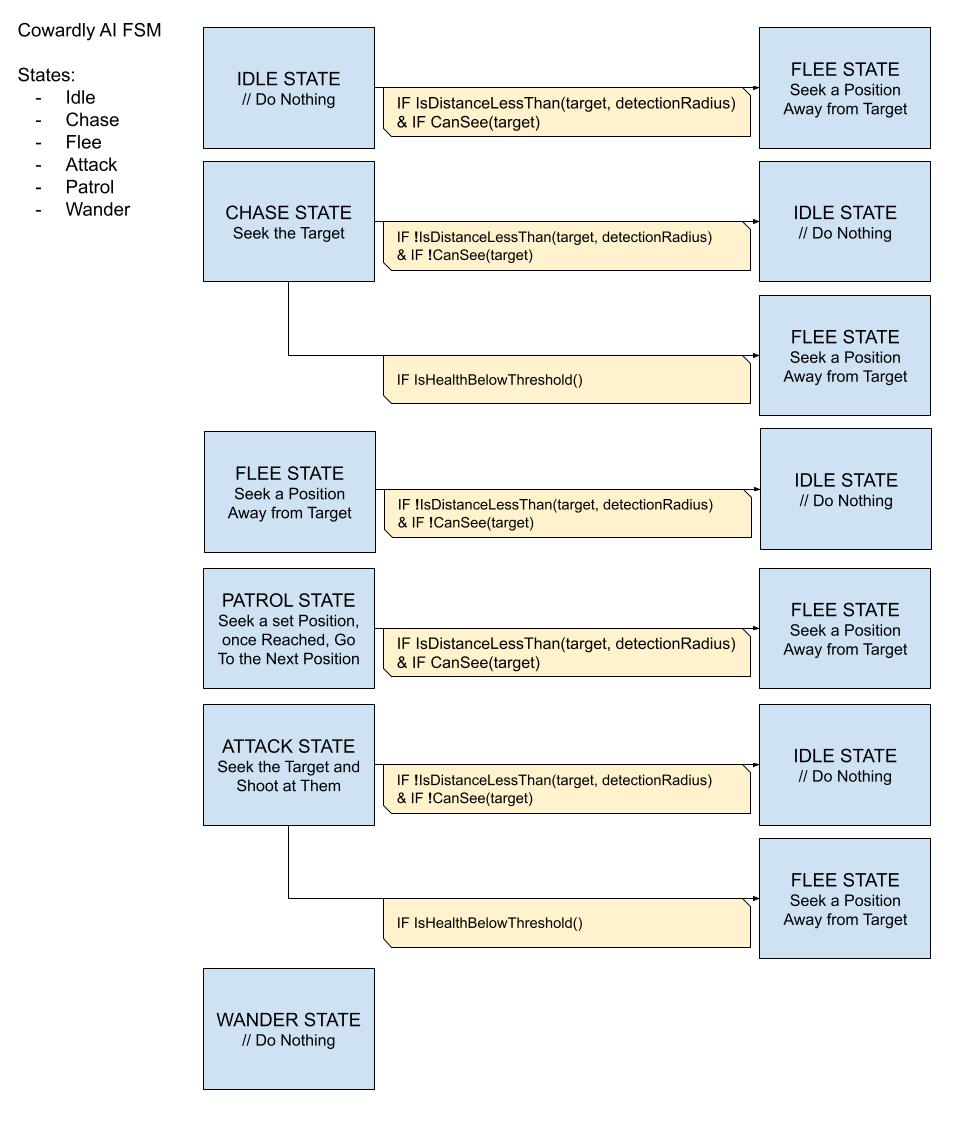
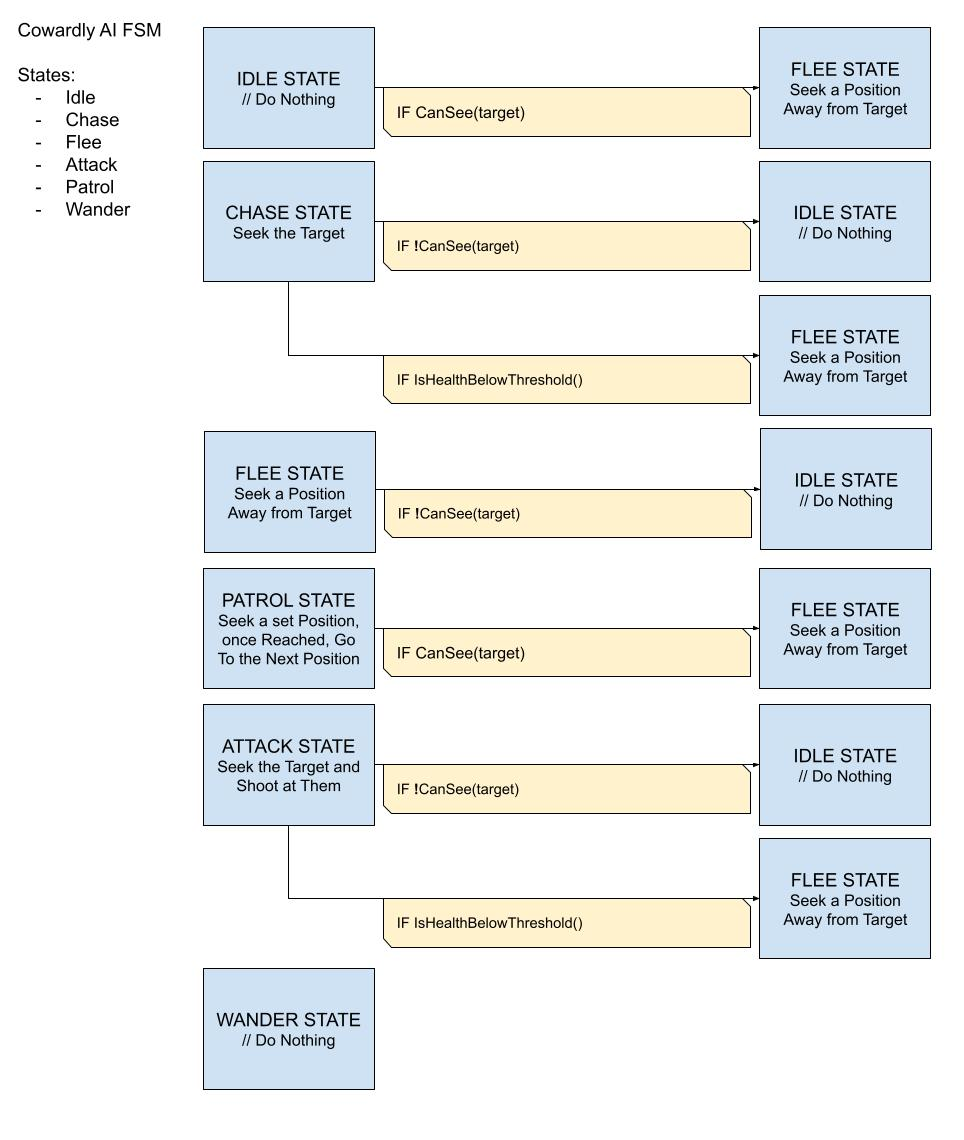
Added Raycasting to All Personalities, Updated FSM Diagrams

diff --git a/Assets/Scripts/AIPersonalities/DumbAIController.cs b/Assets/Scripts/AIPersonalities/DumbAIController.cs
@@ -30,13 +30,9 @@ public class DumbAIController : AIController
                 DoIdleState();
 
                 // If Target is in Range
-                if (IsDistanceLessThan(target, detectionRadius))
+                if (CanSee(target))
                 {
-                    // And We See it
-                    if (CanSee(target))
-                    {
-                        ChangeState(AIState.Chase);
-                    }
+                    ChangeState(AIState.Chase);
                 }
 
                 // If it is time to Wander
@@ -56,13 +52,9 @@ public class DumbAIController : AIController
                 DoChaseState();
 
                 // If Target is out of Range
-                if (!IsDistanceLessThan(target, detectionRadius))
+                if (!CanSee(target))
                 {
-                    // And We can't See it
-                    if (!CanSee(target))
-                    {
-                        ChangeState(AIState.Idle);
-                    }
+                    ChangeState(AIState.Idle);
                 }
                 // If We are Below Health Threshold
                 if (IsHealthBelowThreshold())
@@ -87,13 +79,9 @@ public class DumbAIController : AIController
                 DoPatrolState();
 
                 // If Target is in Range
-                if (IsDistanceLessThan(target, detectionRadius))
+                if (CanSee(target))
                 {
-                    // And We See it
-                    if (CanSee(target))
-                    {
-                        ChangeState(AIState.Chase);
-                    }
+                    ChangeState(AIState.Chase);
                 }
                 break;
 
@@ -102,13 +90,9 @@ public class DumbAIController : AIController
                 DoAttackState();
 
                 // If Target is out of Range
-                if (!IsDistanceLessThan(target, detectionRadius))
+                if (!CanSee(target))
                 {
-                    // And We can't See it
-                    if (!CanSee(target))
-                    {
-                        ChangeState(AIState.Wander);
-                    }
+                    ChangeState(AIState.Idle);
                 }
                 // If We are Below Health Threshold
                 if (IsHealthBelowThreshold())

diff --git a/Assets/Scripts/AIPersonalities/HeroicAIController.cs b/Assets/Scripts/AIPersonalities/HeroicAIController.cs
@@ -63,13 +63,9 @@ public class HeroicAIController : AIController
                 DoIdleState();
 
                 // If Target is in Range
-                if (IsDistanceLessThan(target, detectionRadius))
+                if (CanSee(target))
                 {
-                    // And We See it
-                    if (CanSee(target))
-                    {
-                        ChangeState(AIState.Chase);
-                    }
+                    ChangeState(AIState.Chase);
                 }
                 break;
 
@@ -78,13 +74,9 @@ public class HeroicAIController : AIController
                 DoChaseState();
 
                 // If Target is out of Range
-                if (!IsDistanceLessThan(target, detectionRadius))
+                if (!CanSee(target))
                 {
-                    // And We can't See it
-                    if (!CanSee(target))
-                    {
-                        ChangeState(AIState.Idle);
-                    }
+                    ChangeState(AIState.Idle);
                 }
                 // If We are Below Health Threshold
                 if (IsHealthBelowThreshold())
@@ -109,13 +101,9 @@ public class HeroicAIController : AIController
                 DoPatrolState();
 
                 // If Target is in Range
-                if (IsDistanceLessThan(target, detectionRadius))
+                if (CanSee(target))
                 {
-                    // And We See it
-                    if (CanSee(target))
-                    {
-                        ChangeState(AIState.Chase);
-                    }
+                    ChangeState(AIState.Chase);
                 }
                 break;
 
@@ -124,13 +112,9 @@ public class HeroicAIController : AIController
                 DoAttackState();
 
                 // If Target is out of Range
-                if (!IsDistanceLessThan(target, detectionRadius))
+                if (!CanSee(target))
                 {
-                    // And We can't See it
-                    if (!CanSee(target))
-                    {
-                        ChangeState(AIState.Idle);
-                    }
+                    ChangeState(AIState.Chase);
                 }
                 // If We are Below Health Threshold
                 if (IsHealthBelowThreshold())

diff --git a/Assets/Scripts/AIPersonalities/CowardlyAIController.cs b/Assets/Scripts/AIPersonalities/CowardlyAIController.cs
@@ -30,13 +30,9 @@ public class CowardlyAIController : AIController
                 DoIdleState();
 
                 // If Target is in Range
-                if (IsDistanceLessThan(target, detectionRadius))
+                if (CanSee(target))
                 {
-                    // And We See it
-                    if (CanSee(target))
-                    {
-                        ChangeState(AIState.Flee);
-                    }
+                    ChangeState(AIState.Flee);
                 }
                 break;
 
@@ -45,13 +41,9 @@ public class CowardlyAIController : AIController
                 DoChaseState();
 
                 // If Target is out of Range
-                if (!IsDistanceLessThan(target, detectionRadius))
+                if (CanSee(target))
                 {
-                    // And We can't See it
-                    if (!CanSee(target))
-                    {
-                        ChangeState(AIState.Idle);
-                    }
+                    ChangeState(AIState.Idle);
                 }
                 // If We are Below Health Threshold
                 if (IsHealthBelowThreshold())
@@ -76,13 +68,9 @@ public class CowardlyAIController : AIController
                 DoPatrolState();
 
                 // If Target is in Range
-                if (IsDistanceLessThan(target, detectionRadius))
+                if (CanSee(target))
                 {
-                    // And We See it
-                    if (CanSee(target))
-                    {
-                        ChangeState(AIState.Flee);
-                    }
+                    ChangeState(AIState.Flee);
                 }
                 break;
 
@@ -91,13 +79,9 @@ public class CowardlyAIController : AIController
                 DoAttackState();
 
                 // If Target is out of Range
-                if (!IsDistanceLessThan(target, detectionRadius))
+                if (!CanSee(target))
                 {
-                    // And We can't See it
-                    if (!CanSee(target))
-                    {
-                        ChangeState(AIState.Idle);
-                    }
+                    ChangeState(AIState.Idle);
                 }
                 // If We are Below Health Threshold
                 if (IsHealthBelowThreshold())
